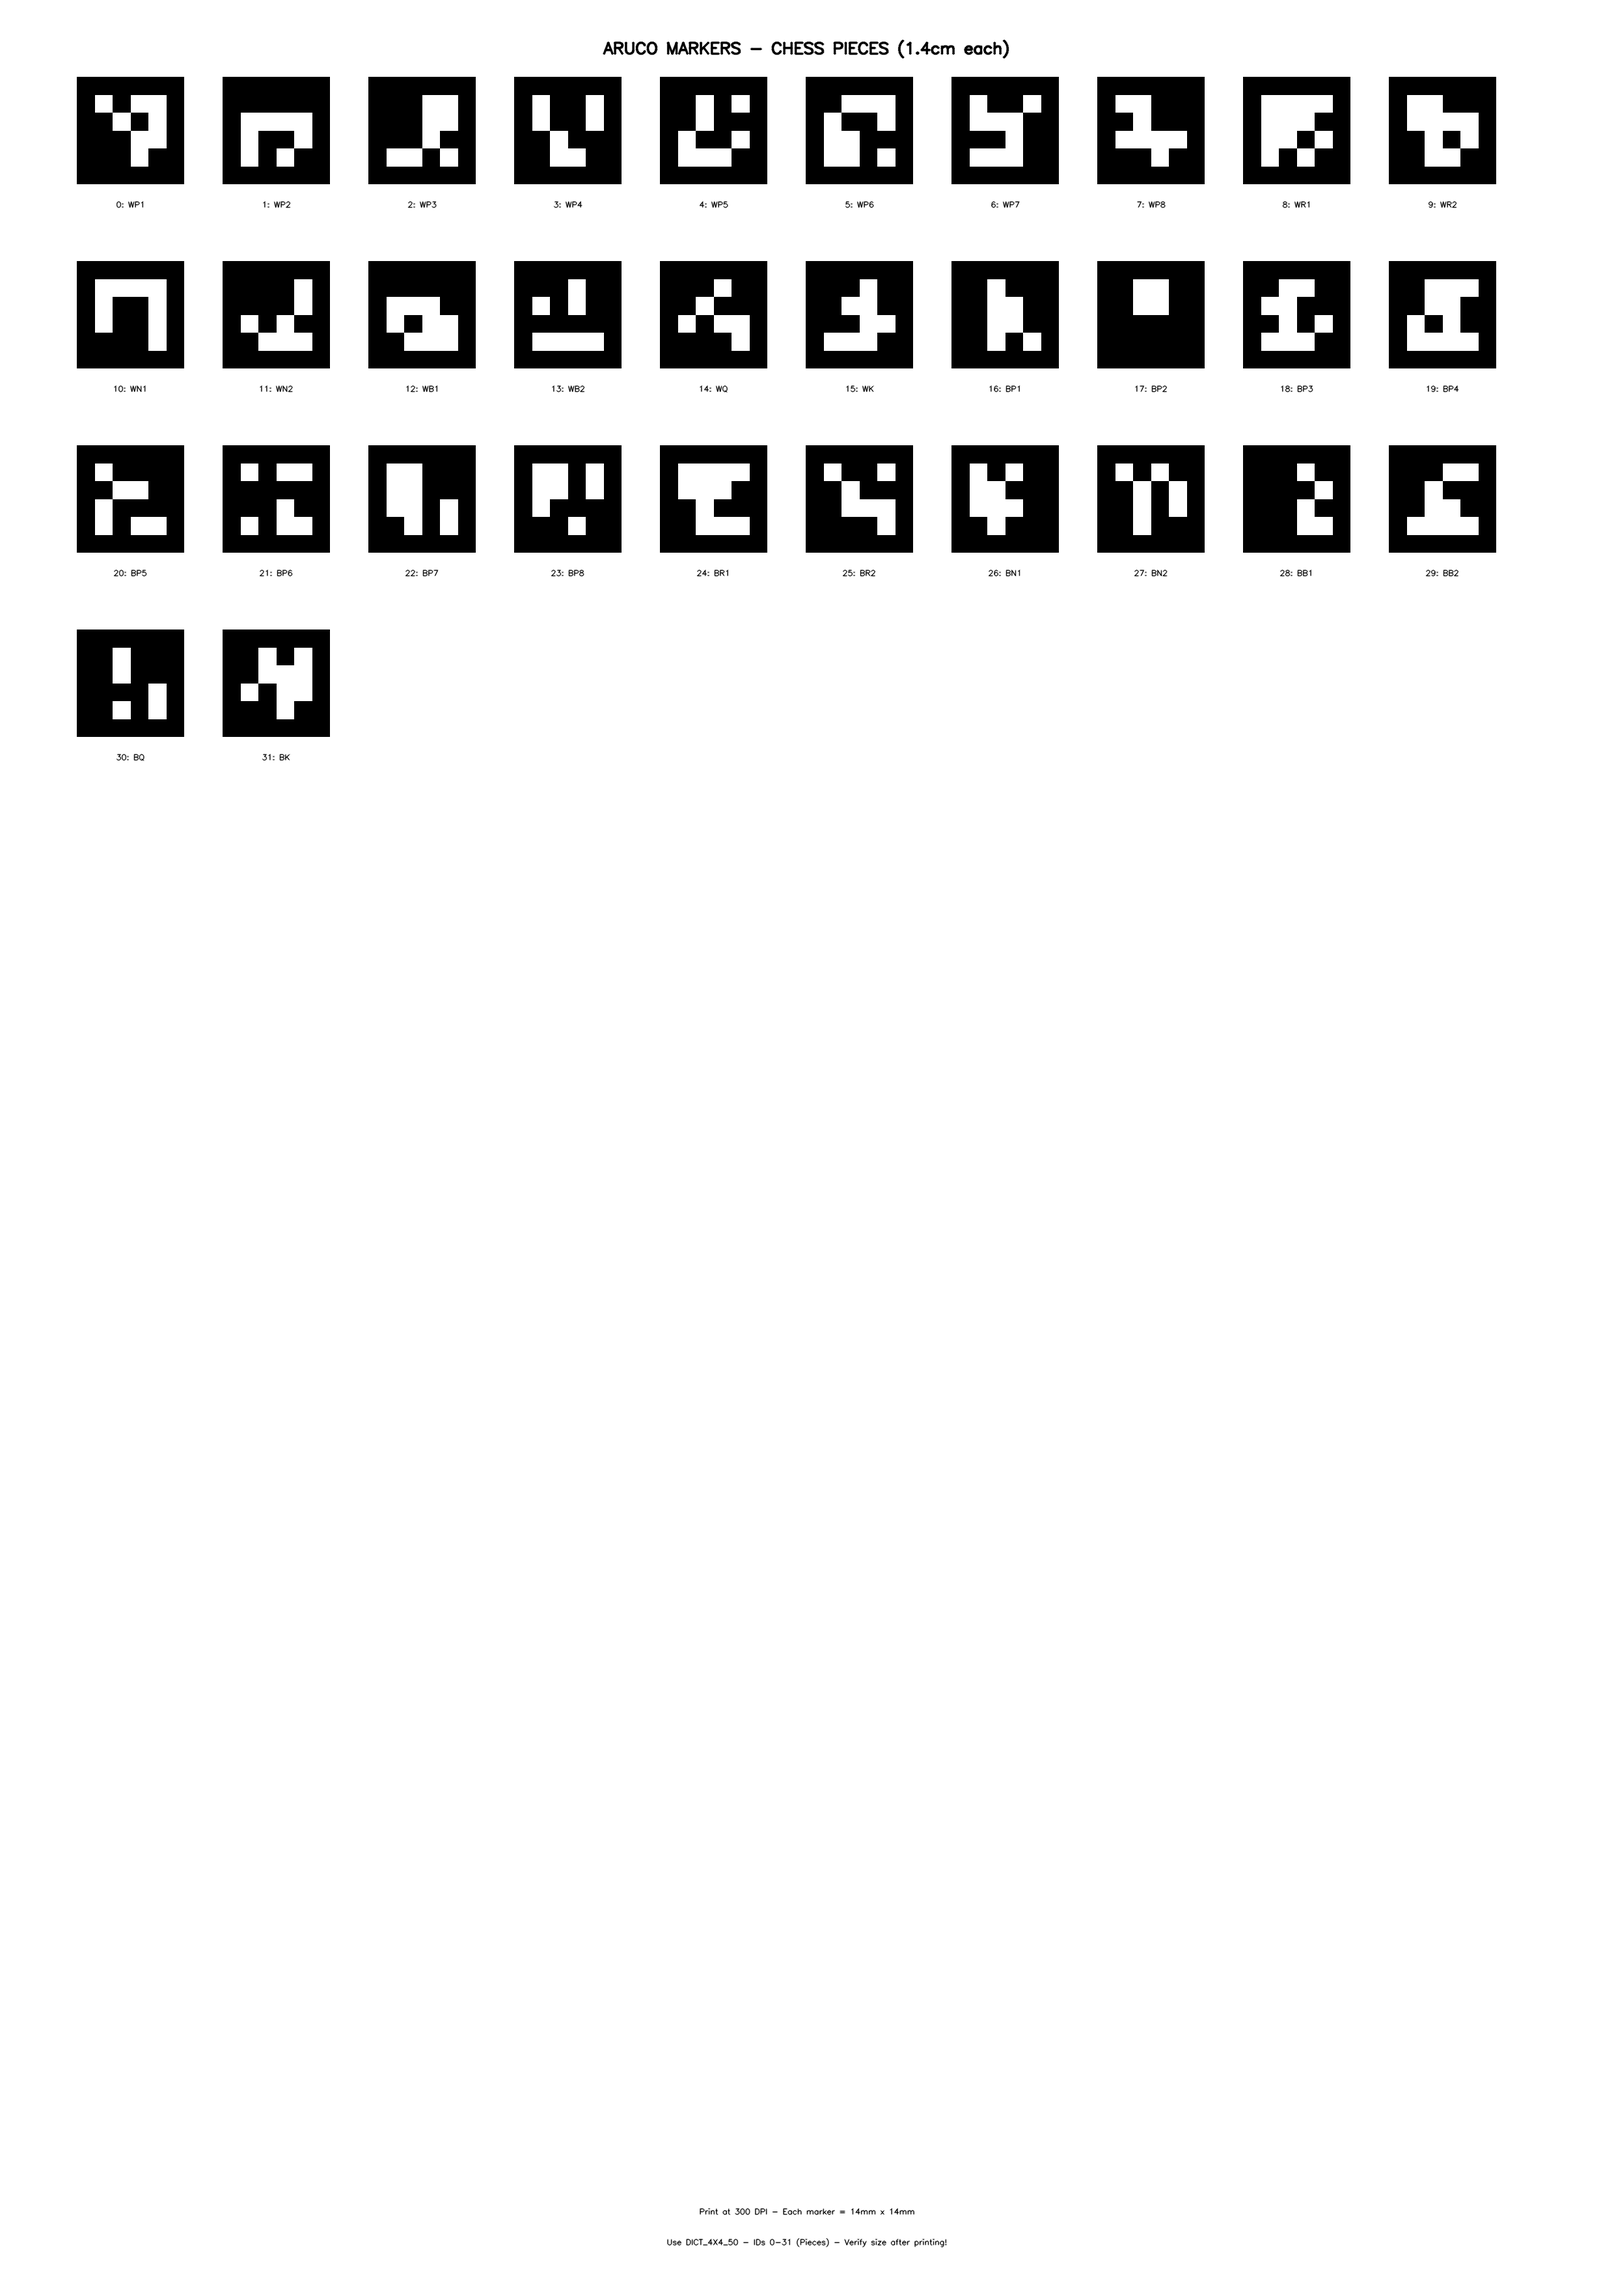
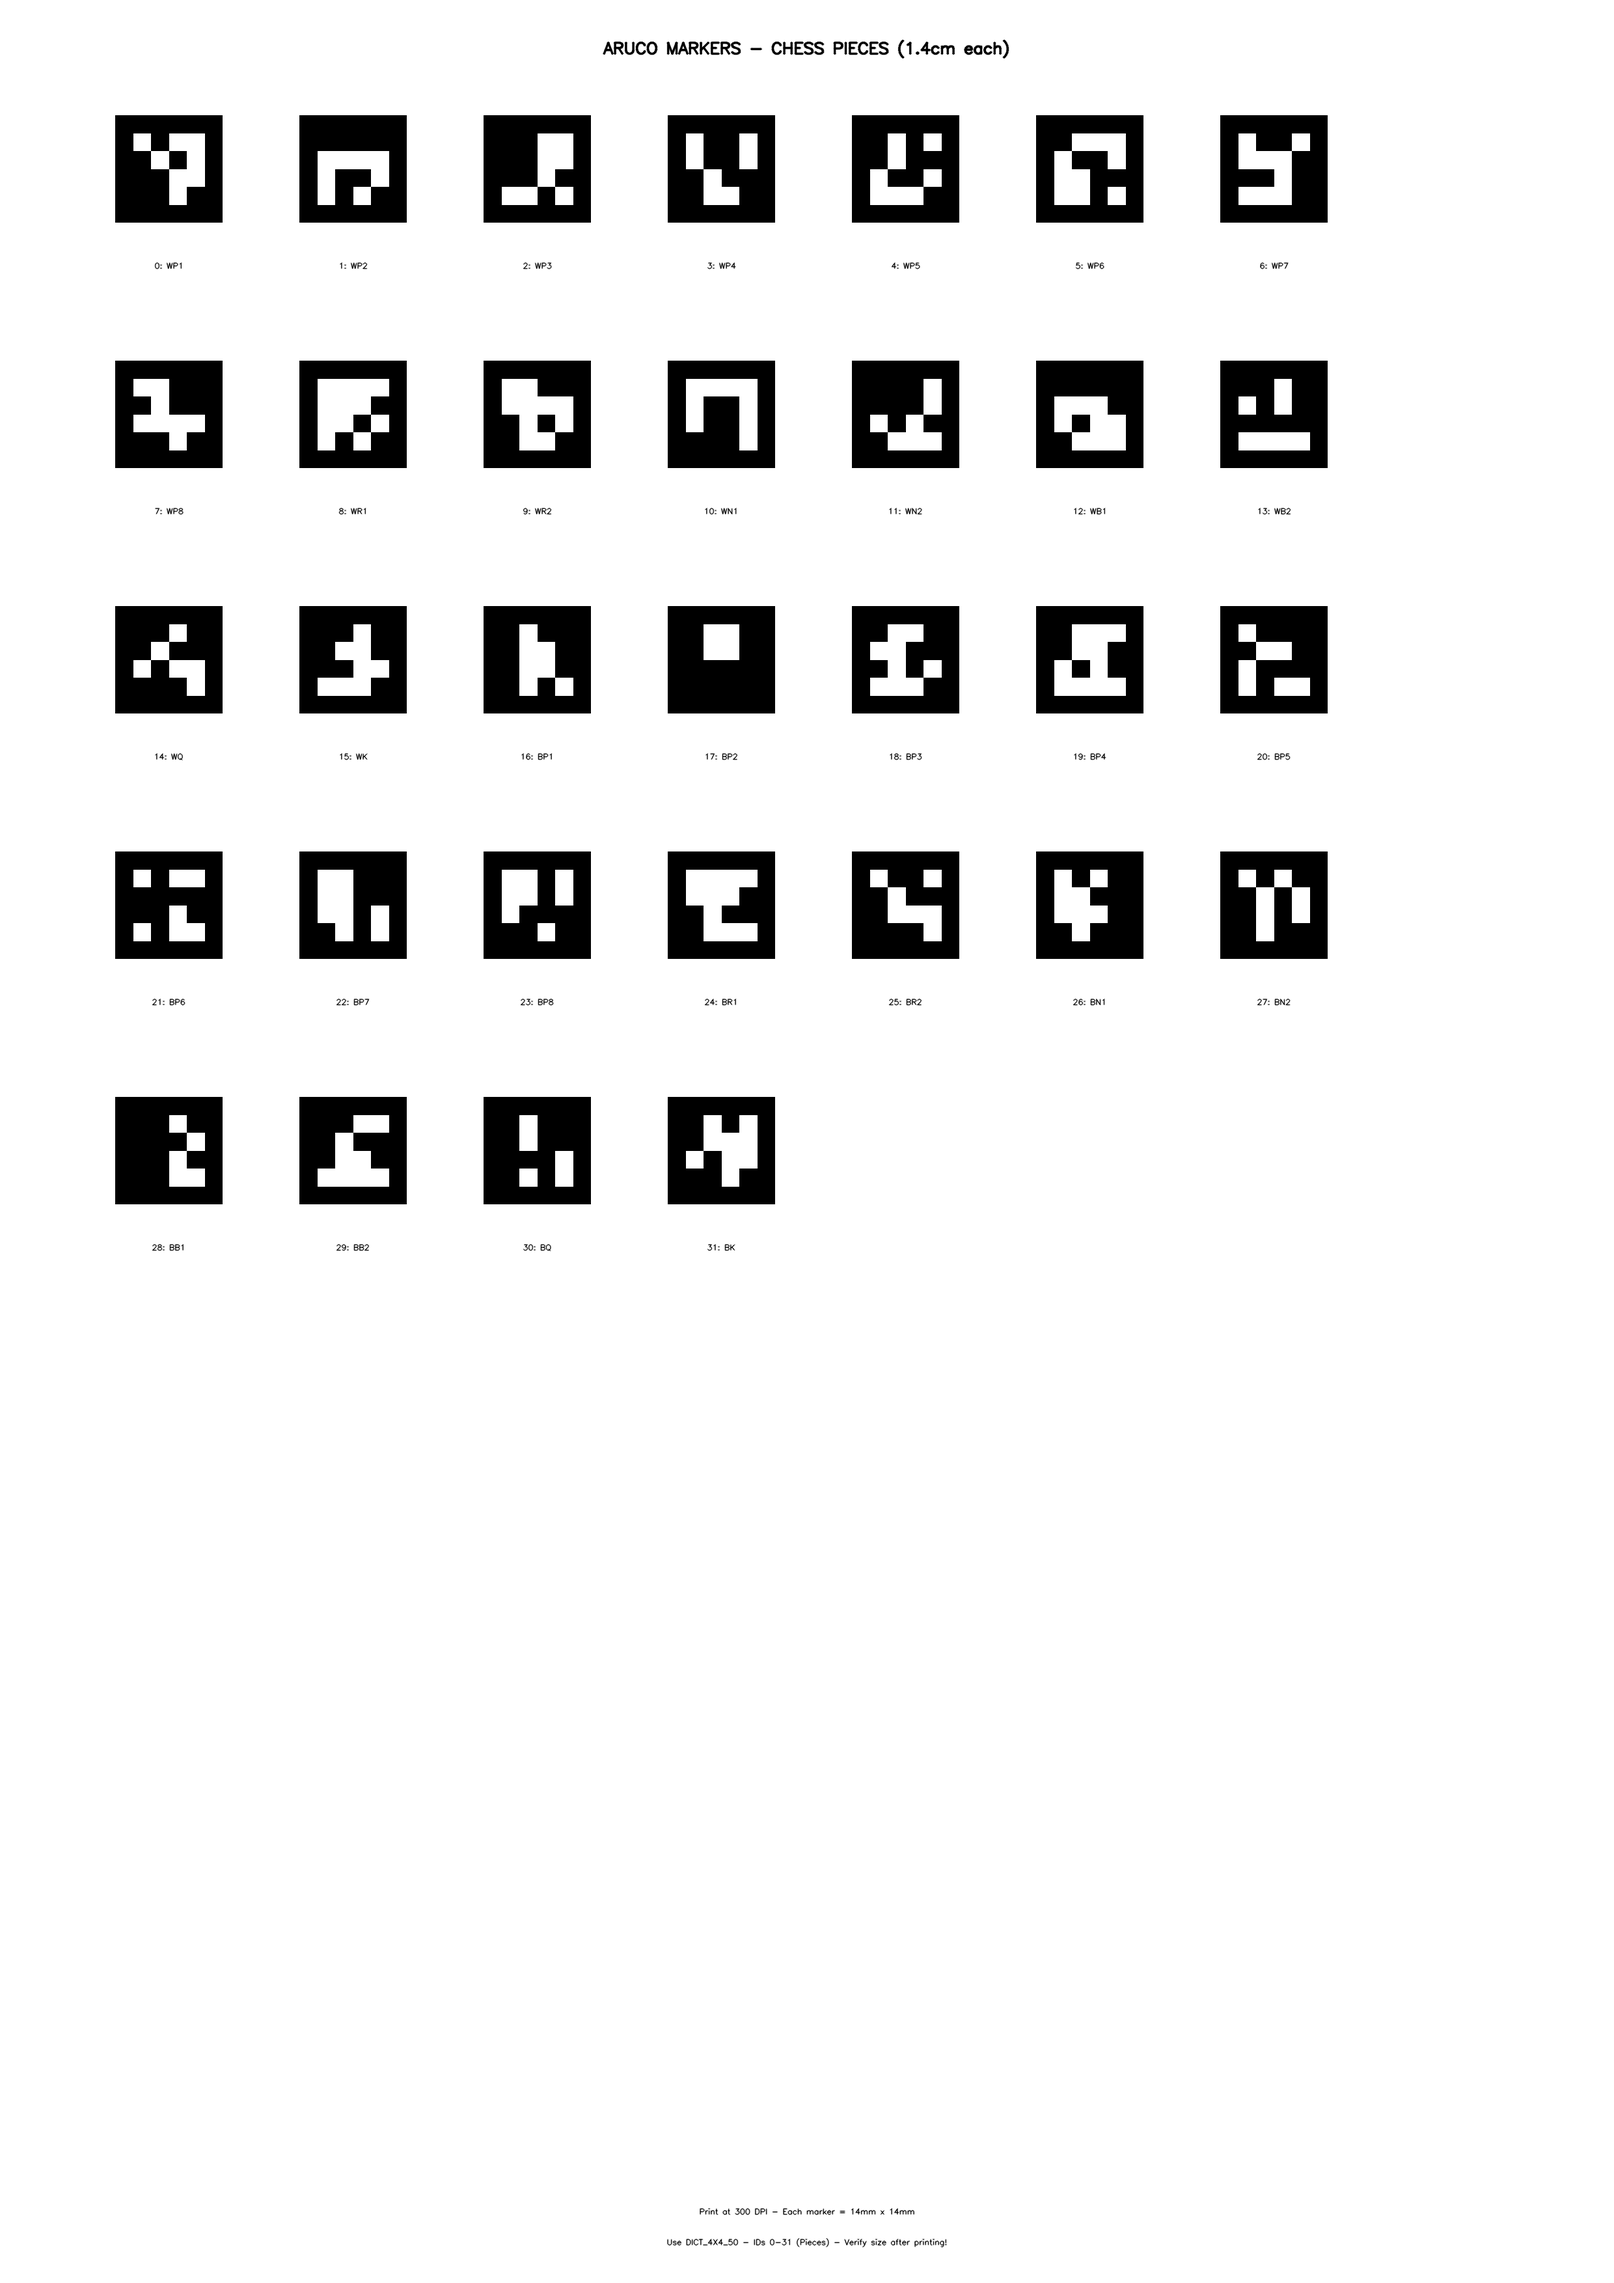
Amélioration espacement ArUco: plus de blanc entre marqueurs et textes

diff --git a/Backend/chess_vision/impression_aruco/generate_aruco_pieces.py b/Backend/chess_vision/impression_aruco/generate_aruco_pieces.py
@@ -9,6 +9,11 @@ Usage:
 
 import cv2
 import numpy as np
+import sys
+from pathlib import Path
+
+# Ajouter le dossier parent au path pour importer config
+sys.path.insert(0, str(Path(__file__).parent.parent))
 from config import ARUCO_DICT_TYPE, PIECES
 
 # Paramètres A4 et impression
@@ -27,9 +32,9 @@ A4_HEIGHT_PX = mm_to_pixels(A4_HEIGHT_MM)
 MARKER_SIZE_PX = mm_to_pixels(MARKER_SIZE_MM)
 
 # Marges et espacement
-MARGIN_PX = mm_to_pixels(10)  # 1cm de marge
-SPACING_PX = mm_to_pixels(5)  # 5mm entre marqueurs
-LABEL_HEIGHT_PX = mm_to_pixels(5)  # Hauteur pour le label
+MARGIN_PX = mm_to_pixels(15)  # 1.5cm de marge (plus d'espace pour le titre)
+SPACING_PX = mm_to_pixels(10)  # 10mm entre marqueurs (plus d'espace blanc)
+LABEL_HEIGHT_PX = mm_to_pixels(8)  # Hauteur pour le label (plus d'espace)
 
 # Calculer le nombre de colonnes et lignes
 CELL_WIDTH = MARKER_SIZE_PX + SPACING_PX
@@ -82,7 +87,7 @@ for idx, marker_id in enumerate(piece_ids):
     
     # Ajouter le label sous le marqueur
     label = f"{marker_id}: {piece_info['code']}"
-    label_y = y + MARKER_SIZE_PX + mm_to_pixels(3)
+    label_y = y + MARKER_SIZE_PX + mm_to_pixels(6)  # 6mm sous le marqueur (plus d'espace)
     
     # Calculer la taille du texte pour le centrer
     font = cv2.FONT_HERSHEY_SIMPLEX
